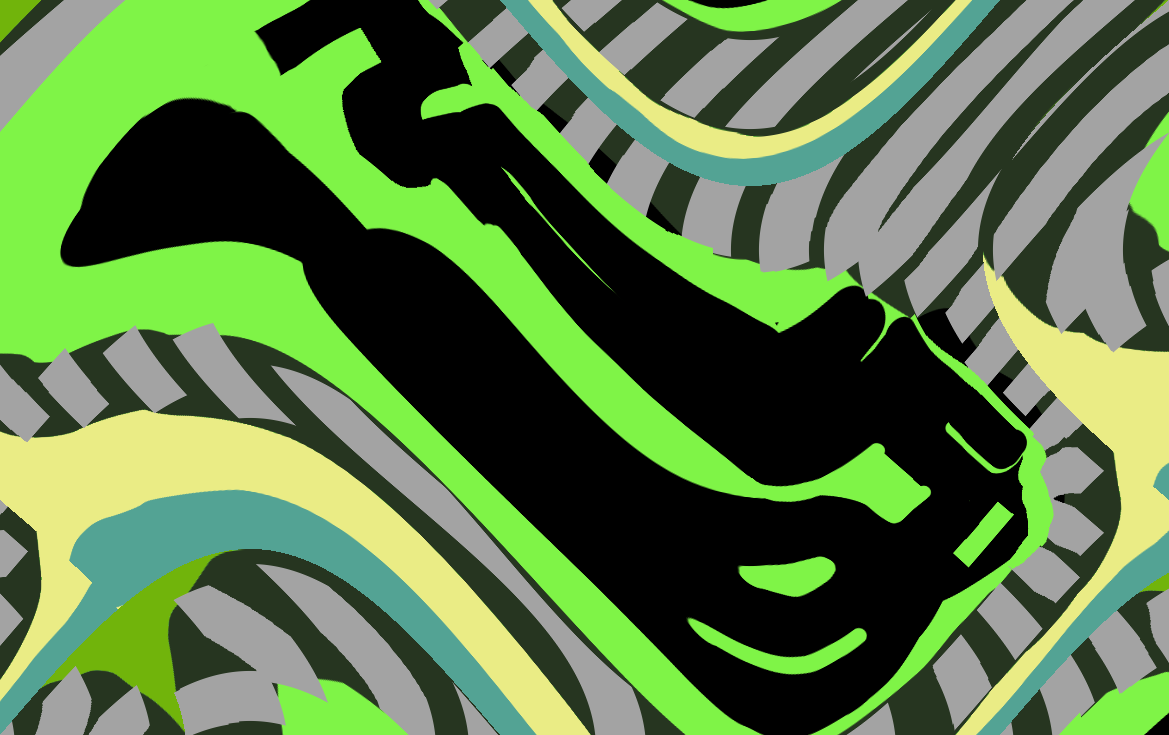
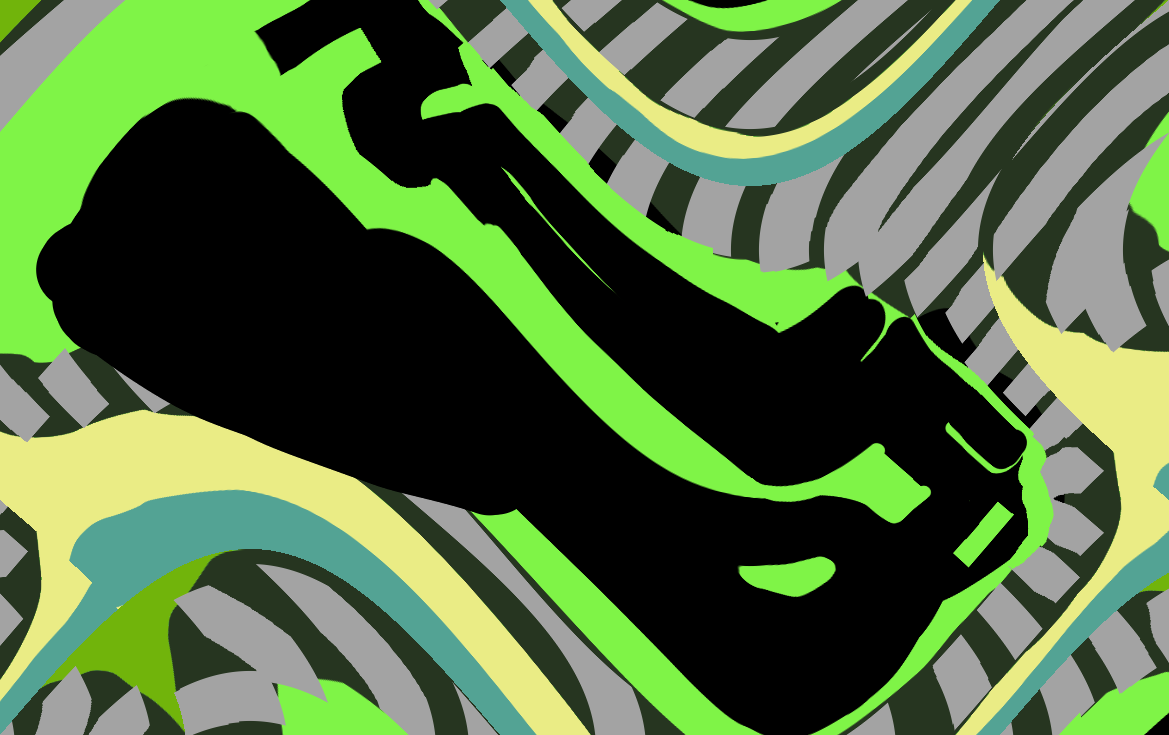
Broke the game over screen, made it temporary again... But hey I added hella stuff. We should make the oil slick smaller doe

Changed region(s): [[0.0308, 0.2993, 0.4311, 0.7184], [0.5851, 0.8381, 0.7391, 0.9279]]

diff --git a/Py Driver Real/starter.py b/Py Driver Real/starter.py
@@ -99,9 +99,9 @@ def main():
 
     #creates the oil
     oil = pygame.image.load("oil.png").convert_alpha()
-    oil = pygame.transform.smoothscale(oil, (100, 100))
+    oil = pygame.transform.smoothscale(oil, (70, 70))
     oil_rect = oil.get_rect()
-    oil_rect.center = (640, 550)
+    oil_rect.center = (630, 550)
     oil_mask = pygame.mask.from_surface(oil)
 
     # creates the unscrambler
@@ -260,10 +260,8 @@ def main():
                         touch_cement = False
                         second_level = None
 
-        if is_game_over == True:
-            screen.blit(game_over_screen, game_over_screen_rect)
 
-
+        #checks if the third level has started yet, will happen only after clicking flag
         if third_level_start == True :
             is_game_over = False
             second_level_start = None
@@ -282,26 +280,27 @@ def main():
         if third_level == True:
             start_screen_click = False
             screen.fill((0, 0, 0))  # This helps check if the image path is transparent
-            screen.blit(map4, map4_rect)
-            screen.blit(oil, oil_rect)
+            # screen.blit(map3, map3_rect)
             screen.blit(player, player_rect)
             screen.blit(level_3_hint, (300, 650))
-            if touch_trophy == False:
-                screen.blit(key, key_rect)
             if touch_unscrambler == False:
+                screen.blit(map4, map4_rect)
                 screen.blit(unscrambler, unscrambler_rect)
             if touch_unscrambler == True:
                 screen.blit(map3, map3_rect)
-                if pixel_collision(player_mask, player_rect, map3_mask, map3_rect):
-                    is_game_over = True
-                    touch_trophy = None
+                screen.blit(player, player_rect)
+            if pixel_collision(player_mask, player_rect, map3_mask, map3_rect):
+                is_game_over = True
+                touch_trophy = None
+            if pixel_collision(player_mask, player_rect, finish_line_mask,
+                finish_line_rect) and is_game_over == False:
+                print("congrats! You've passed all the levels")
+
             # if pixel_collision(player_mask, player_rect, map3_mask, map3_rect):
             #     is_game_over = True
             #     touch_trophy = None
             if screen.blit(unscrambler, unscrambler_rect).collidepoint(pos) and is_game_over == False:
                 touch_unscrambler = True
-            if pixel_collision(player_mask, player_rect, finish_line_mask, finish_line_rect) and is_game_over == False:
-                print("congrats! You've passed all the levels")
 
         if event.type == pygame.MOUSEBUTTONDOWN:
             start_screen_click = True
@@ -313,28 +312,13 @@ def main():
         if touch_trophy == True:
             screen.blit(finish_line, finish_line_rect)
         if touch_unscrambler == True:
-            screen.blit(map3, map3_rect)
-            time.sleep(3)
-            if pixel_collision(player_mask, player_rect, map3_mask, map3_rect):
-                is_game_over = True
-                touch_trophy = None
+           screen.blit(finish_line, finish_line_rect)
 
 
+        #game over code here
+        if is_game_over == True:
+            screen.blit(game_over_screen, game_over_screen_rect)
 
-        # Draw the background
-        # screen.fill((0,0,0)) # This helps check if the image path is transparent
-        # screen.blit(map, map_rect)
-
-        # # Draw the player character
-        # screen.blit(player, player_rect)
-        # if not key_found:
-        #     screen.blit(key, key_rect)
-        #     screen.blit(door, door_rect)
-
-        # og start screen
-        # if not start_screen_click:
-        #     screen.blit(start_screen, start_screen_rect)
-        # if start_screen_click:
 
 
         # Write some text to the screen. You can do something like this to show some hints or whatever you want.
@@ -343,7 +327,7 @@ def main():
 
         level_1_hint = myfont.render("hint:collect the gas and then finish the race!", True, (0,0,0))
         level_2_hint = myfont.render("hint:cement dust can soak up oil!", True, (0,0,0))
-        level_3_hint = myfont.render("hint:The map must be unscrambled before being played\n but get to safety after driving over the button", True, (255, 255, 255))
+        level_3_hint = myfont.render("hint:The map must be unscrambled before it can be won\n but get to safety after driving over the button", True, (255, 255, 255))
         level_4_hint = myfont.render("hint:Take what is rightfully yours and \n win the game!", True, (255, 255, 255))
         # Every time through the loop, increase the frame count.
         frame_count += 1
